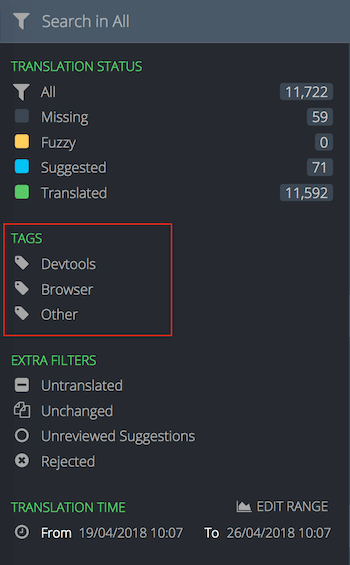
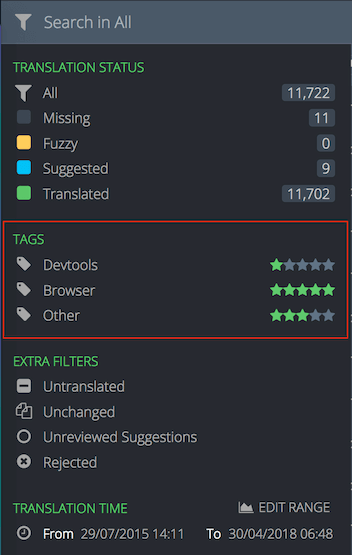
Update description and image for tags filters

Changed region(s): [[0.0, 0.0, 1.0, 0.8577], [0.0286, 0.8883, 0.5429, 0.9802], [0.5714, 0.8883, 0.9429, 0.9802]]

diff --git a/tools/pontoon/search_filters.md b/tools/pontoon/search_filters.md
@@ -42,11 +42,7 @@ For specific projects it’s also possible to filter strings based on *tags*. Ta
 
 ![Tags in filters](/assets/images/pontoon/search_filters/filters_tags.png)
 
-In this case, there are 3 tags defined for the project (highlighted in red).
-
-If tags are enabled, the list of tags available is also displayed in a *Tags* tab in the localization page. This view includes information like the priority associated to the tag, and latest activity.
-
-![Tags tab in localization page](/assets/images/pontoon/search_filters/tags_list.png)
+In this case, there are 3 tags defined for the project (highlighted in red). Near each tag there is a representation of the priority: like for projects, it goes from 5 stars (highest priority) to 1 star (lowest priority).
 
 ## Search
 
